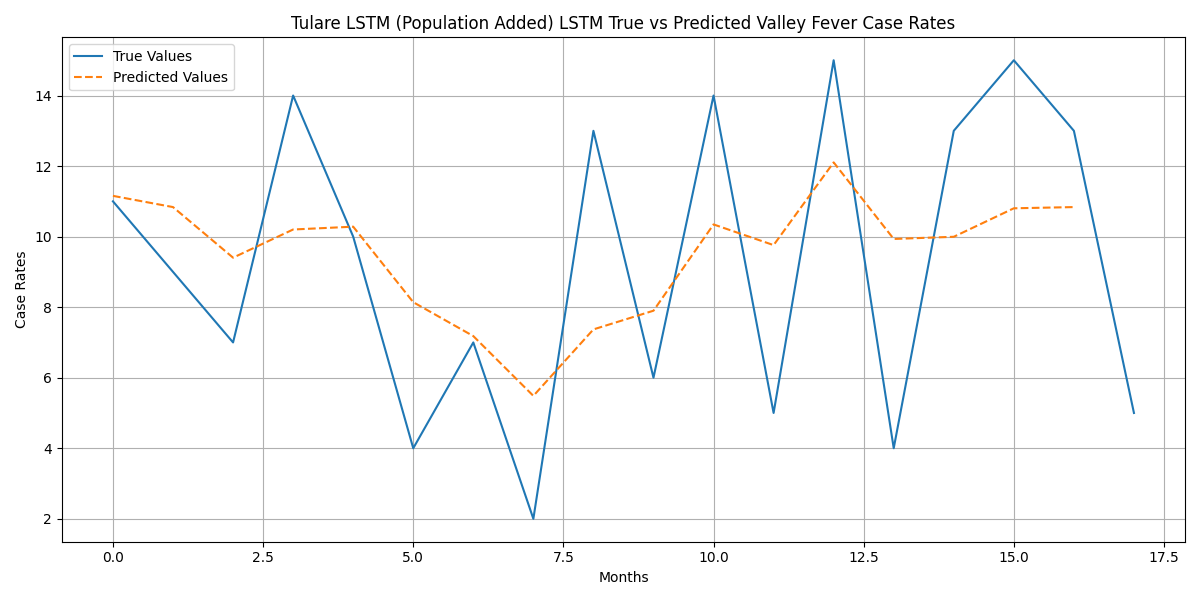
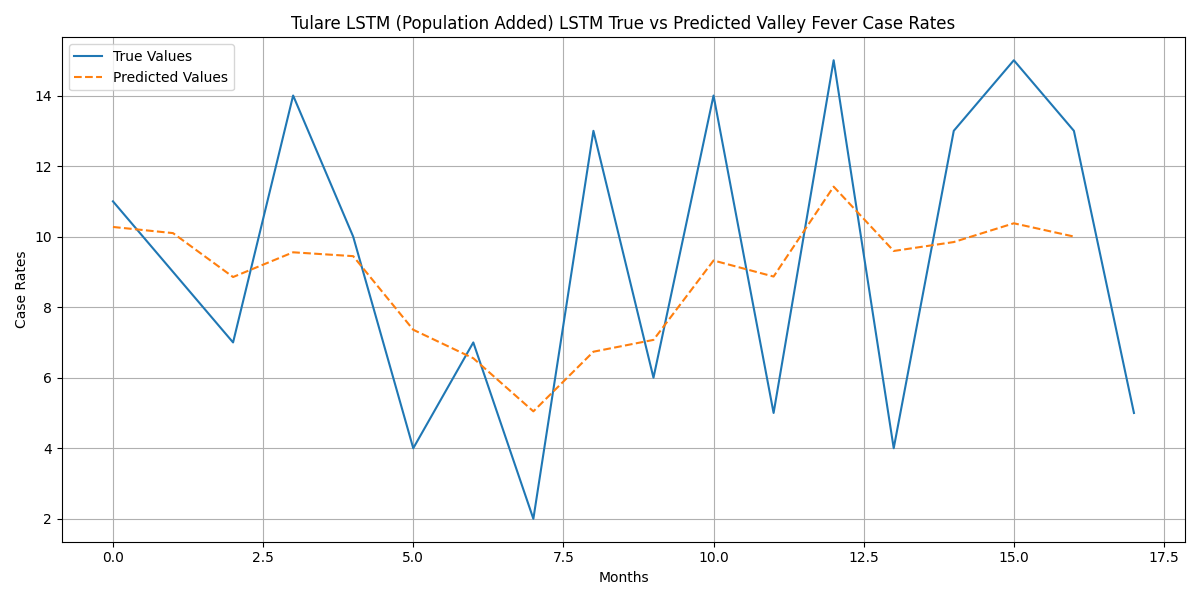
multihead attention added and tested. it works!

diff --git a/Project/code/main.py b/Project/code/main.py
@@ -1,11 +1,12 @@
 import pandas as pd 
 import torch.nn as nn 
 import torch.optim as optim 
-from models import LSTM
+from models import LSTM, TransformerModel
 from trainer import Trainer 
 from data_utils import prep_data
 from loss_functions import RMSELoss
 from data_loader import combine_vf_fire_pop_data
+from transformer_modules.attention import MultiHeadAttention
 
 def main():
 
@@ -15,7 +16,7 @@ def main():
   pop2_data_path       = "Project/data/cali_county_pop_2010_2020.csv"
   start_year           = "2006"
   end_year             = "2015"
-  county_name          = "Tulare"
+  county_name          = "Fresno"
   source_column_labels = ['Fire Incident Count', 'VF Case Count', 'Population']
   split_frac           = .85
   lookback             = 6
@@ -27,6 +28,12 @@ def main():
   epochs               = 300
   weight_decay         = 1e-5
   title_text           = "(Population Added)"
+  model_flag           = "lstm"
+
+  # Transformer Properties
+  d_model         = 32
+  nheads          = 2
+  dim_feedforward = 64
 
   wf_vf_pop_df = combine_vf_fire_pop_data(pop1_data_path, pop2_data_path, vf_data_path, fire_data_path, county_name,
                                           start_year, end_year, bInterp=False)
@@ -35,7 +42,14 @@ def main():
                                                         split_frac, lookback, b_scaler=True)
 
   # Able to be swapped out with other models (I hope)
-  model     = LSTM(input_size=input_size, hidden_size=hidden_size, num_layers=num_layers, dropout=dropout)
+  if model_flag == "lstm":
+    model     = LSTM(input_size=input_size, hidden_size=hidden_size, num_layers=num_layers, dropout=dropout)
+  elif model_flag == "transformer":
+    model = TransformerModel(input_size= input_size, d_model = d_model, nhead= nheads, num_layers = num_layers,
+                             dim_feedforward= dim_feedforward, dropout=dropout, attention_impl=MultiHeadAttention)
+  else:
+    raise NotImplementedError("Other Architectures besides LSTM and Transformer not implemented. " \
+                              "If this is a mistake, check your spelling in model_flag variable.")
   criterion = RMSELoss()
   optimizer = optim.Adam(model.parameters(), lr = learning_rate, weight_decay=weight_decay)  
 
@@ -43,7 +57,8 @@ def main():
   trainer.train(X_train, y_train, X_test, y_test, epochs)
 
   y_pred, y_true = trainer.evaluate(X_test, y_test)
-  trainer.visualize_results(y_true, y_pred, county_name, title_text = title_text, show_plot=True, save_fig = True)
+  trainer.visualize_results(y_true, y_pred, county_name, model_type = model_flag, 
+                            title_text = title_text, show_plot=True, save_fig = True)
 
 if __name__ == "__main__":
   main()

diff --git a/Project/code/models.py b/Project/code/models.py
@@ -2,6 +2,7 @@ import torch
 import torch.nn as nn
 from transformer_modules.encoder import TransformerEncoder
 from transformer_modules.positional import PositionalEncoding
+from transformer_modules.attention import MultiHeadAttention
 
 class LSTM(nn.Module):
   def __init__(self, input_size, hidden_size, dropout, num_layers = 1):
